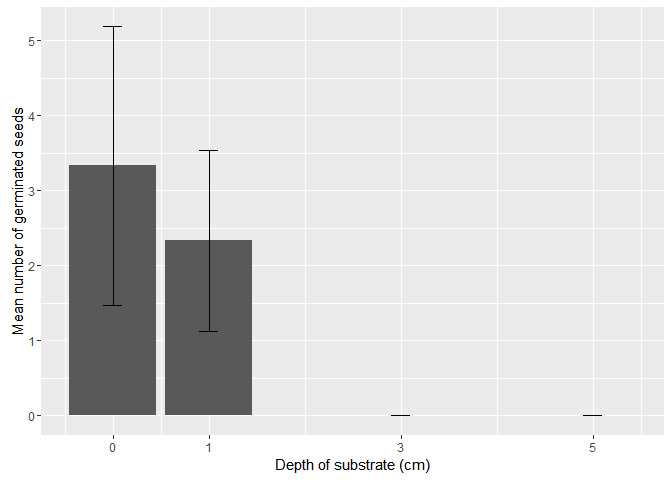
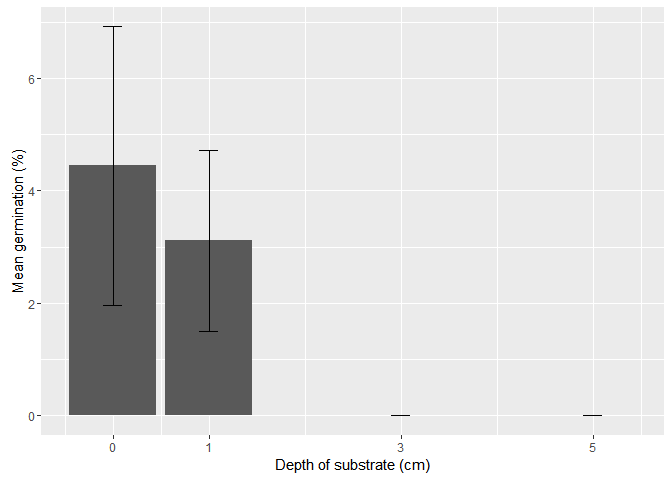
new html page was generated with updated graphs

diff --git a/man/litorela_analysis.html b/man/litorela_analysis.html
@@ -80,6 +80,7 @@ img {
 <li>fail = succ - sum (all seeds)<br /></li>
 <li>treat = soil type</li>
 </ul>
+<pre class="r"><code>data=read.csv (&quot;resubmision/prolicovani_ruzne_substraty_2.csv&quot;, header=TRUE, sep=&quot;;&quot;) </code></pre>
 <pre class="r"><code>#put together some model
 mod &lt;- glm(cbind(succ, fail) ~ treat, data=data,family=binomial)
 mod</code></pre>
@@ -194,7 +195,7 @@ plogis (mod$coefficients[1]) #intercept (clay)</code></pre>
 </div>
 <div id="bar-plot" class="section level3">
 <h3>Bar plot:</h3>
[2 lines of base64/hex data omitted]
 </div>
 </div>
 <div id="the-end" class="section level2">
@@ -321,7 +322,7 @@ plogis (mod$coefficients[1]) #intercept (ka)</code></pre>
 </div>
 <div id="bar-plot-1" class="section level3">
 <h3>Bar plot</h3>
[2 lines of base64/hex data omitted]
 </div>
 <div id="the-end-1" class="section level3">
 <h3>THE END</h3>
@@ -408,7 +409,7 @@ abline(a=0,b=1)</code></pre>
 </div>
 <div id="barplot" class="section level3">
 <h3>Barplot</h3>
[2 lines of base64/hex data omitted]
 </div>
 <div id="the-end-2" class="section level3">
 <h3>THE END</h3>
@@ -496,7 +497,7 @@ abline(a=0,b=1)</code></pre>
 </div>
 <div id="barplot-1" class="section level3">
 <h3>Barplot</h3>
[2 lines of base64/hex data omitted]
 </div>
 </div>
 </div>

diff --git a/man/litorela_analysis.md b/man/litorela_analysis.md
@@ -8,8 +8,12 @@ Pavel Jakubec
 ### Model:
 * succ = number of germinated seeds  
 * fail = succ - sum (all seeds)   
-* treat = soil type   
+* treat = soil type  
 
+
+```r
+data=read.csv ("resubmision/prolicovani_ruzne_substraty_2.csv", header=TRUE, sep=";") 
+```
 
 ```r
 #put together some model
@@ -513,6 +517,7 @@ abline(a=0,b=1)
 ### Model:
 * y = number of germinated seeds  / number of fails  
 * treat = soil layer depth  
+
 
 ```
 ## [1] 12
